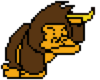
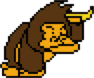
harambe character size

diff --git a/core/src/be/howest/junglewars/screens/GameScreen.java b/core/src/be/howest/junglewars/screens/GameScreen.java
@@ -61,7 +61,7 @@ public class GameScreen extends ScreenAdapter {
 
         // Players
         players = new ArrayList<>();
-        players.add(new Player("John", 70, 80, "harambe", 6));
+        players.add(new Player("John", 80, 80, "harambe", 6));
 
         // Enemies
         enemies = new ArrayList<>();
